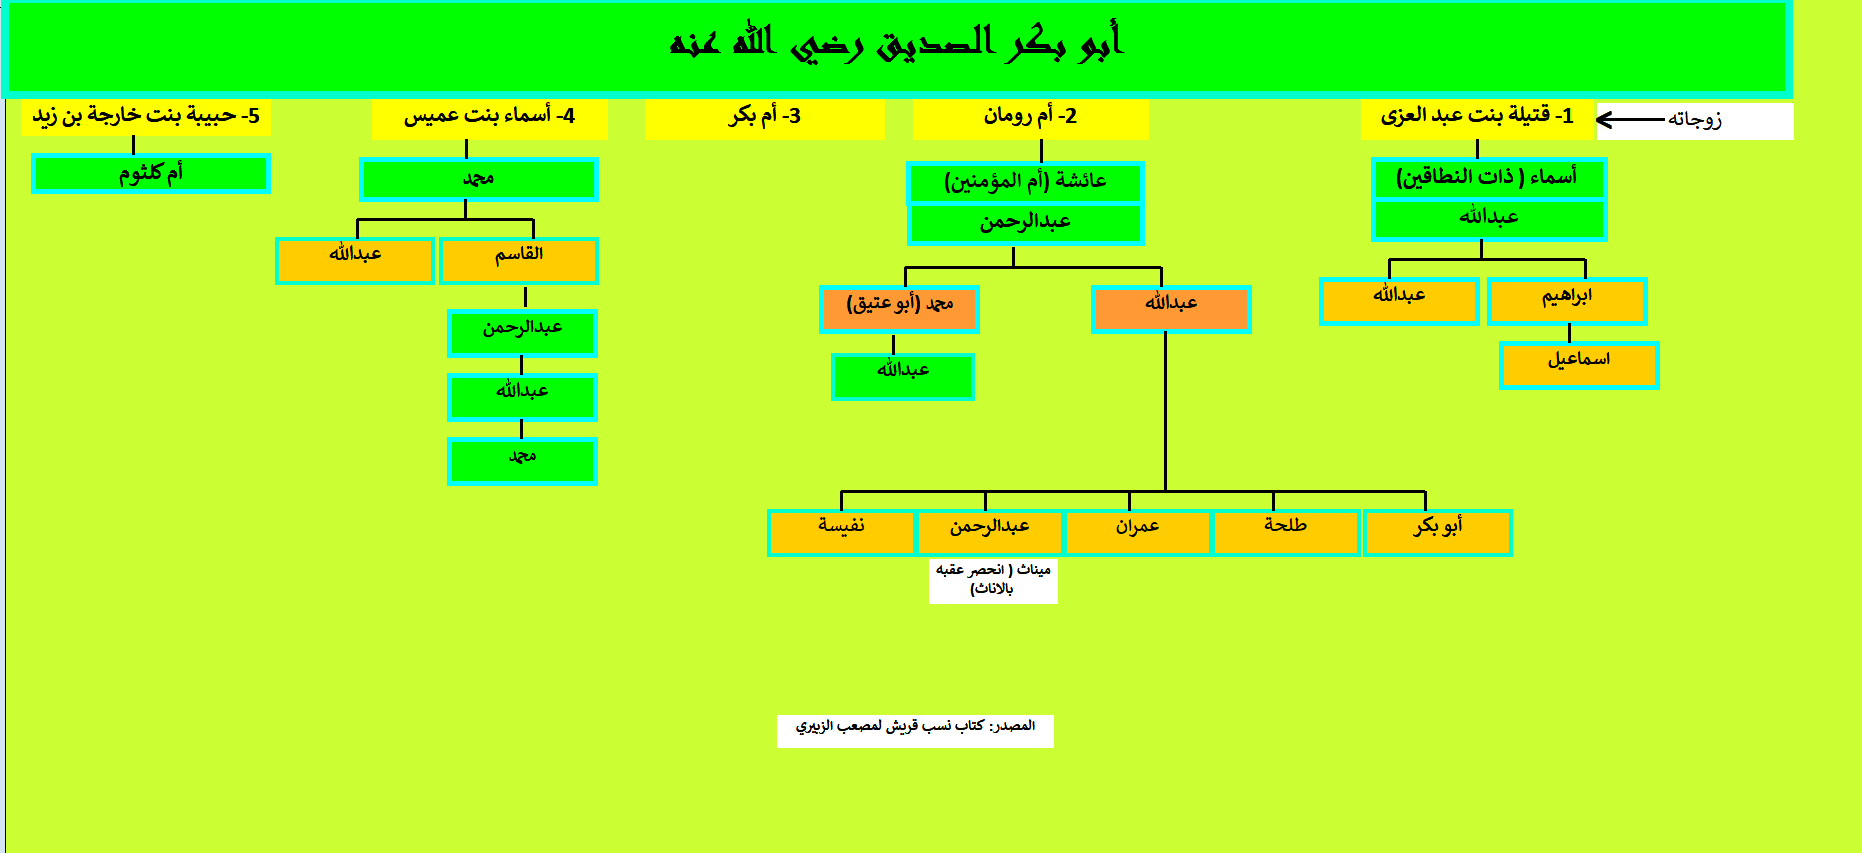
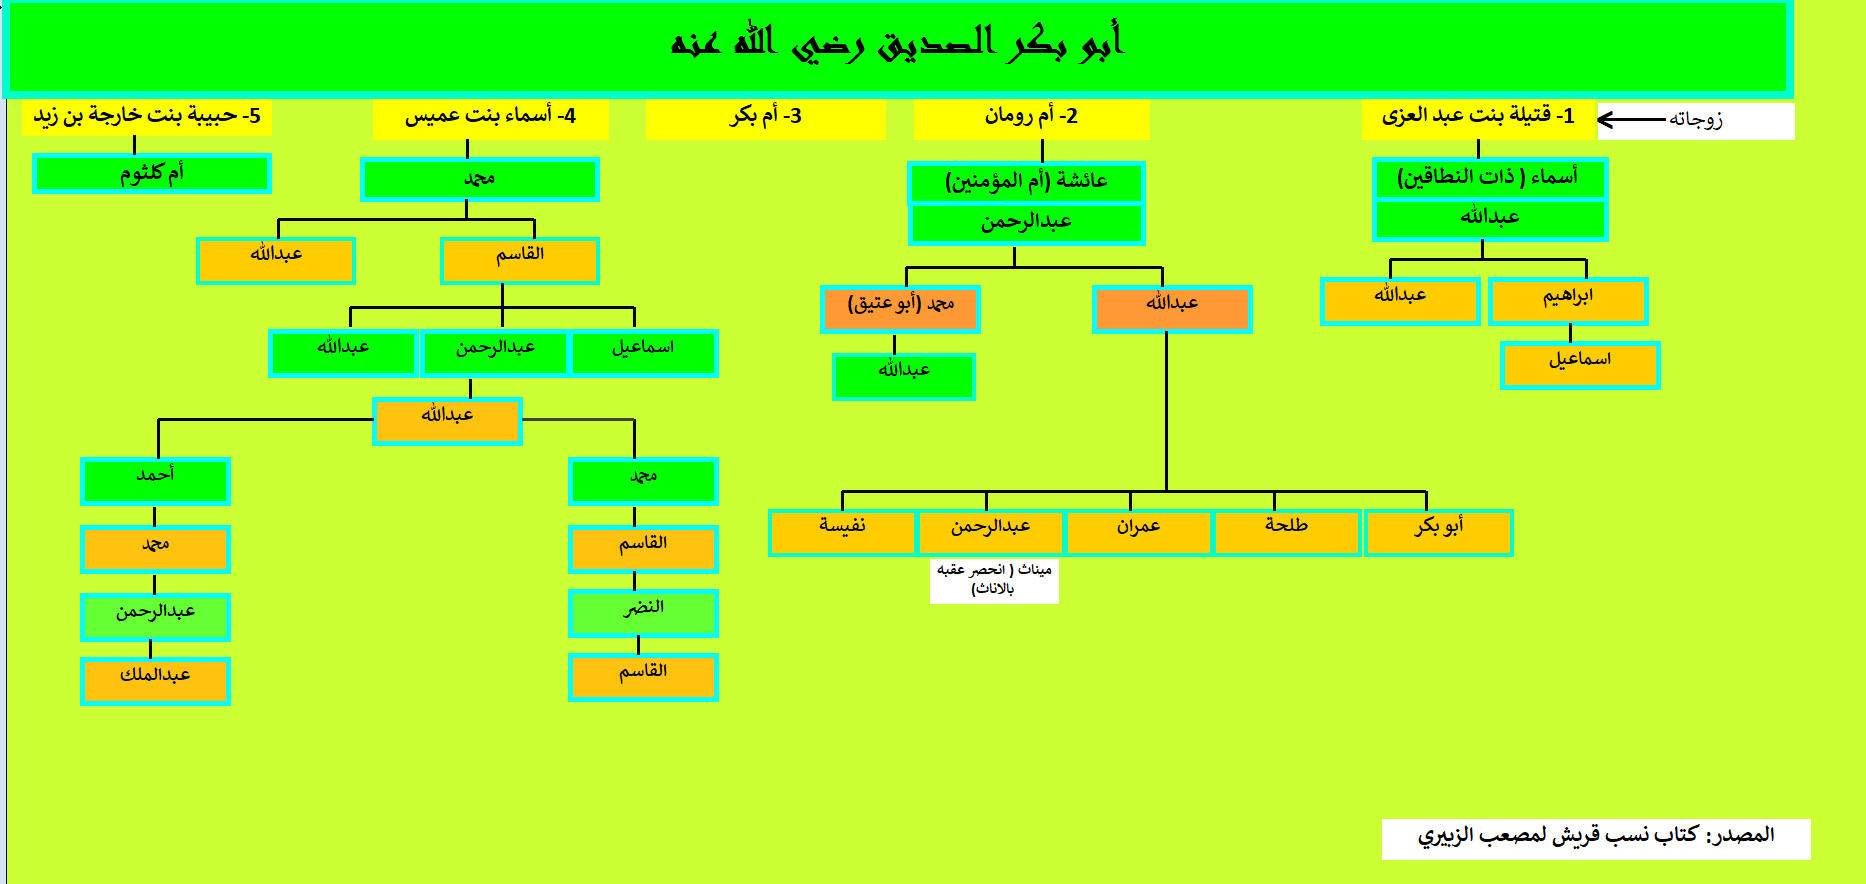
update

diff --git a/abu-bakr.html b/abu-bakr.html
@@ -35,34 +35,42 @@ function FP_getObjectByID(id,o) {//v1.0
 </style>
 </head>
 
-<body style="background-color: #CCFF33" onload="FP_preloadImgs(/*url*/'button1C22.gif',/*url*/'button1D14.gif',/*url*/'button1F13.gif',/*url*/'button2547.gif',/*url*/'button2548.gif',/*url*/'button2549.gif',/*url*/'button2550.gif',/*url*/'button2551.gif',/*url*/'button2554.gif',/*url*/'button2555.gif',/*url*/'button2557.gif',/*url*/'button2558.gif')">
+<body style="background-color: #CCFF33" onload="FP_preloadImgs(/*url*/'button1C22.gif',/*url*/'button1D14.gif',/*url*/'button1F13.gif',/*url*/'button2547.gif',/*url*/'button2548.gif',/*url*/'button2549.gif',/*url*/'button2550.gif',/*url*/'button2551.gif',/*url*/'button2554.gif',/*url*/'button2555.gif',/*url*/'button2557.gif',/*url*/'button2558.gif',/*url*/'button742.jpg',/*url*/'button743.jpg',/*url*/'button2560.gif',/*url*/'button2561.gif')">
 
 <p>
 
-<div id="layer7" style="position: absolute; width: 155px; height: 35px; z-index: 7; left: 80px; top: 635px">
+<div id="layer7" style="position: absolute; width: 155px; height: 35px; z-index: 7; left: 50px; top: 670px">
 	<a href="index1.html">
 	<img id="img7" alt="الأنساب  القريشية" height="30" onmousedown="FP_swapImg(1,0,/*id*/'img7',/*url*/'button2555.gif')" onmouseout="FP_swapImg(0,0,/*id*/'img7',/*url*/'button2556.gif')" onmouseover="FP_swapImg(1,0,/*id*/'img7',/*url*/'button2554.gif')" onmouseup="FP_swapImg(0,0,/*id*/'img7',/*url*/'button2554.gif')" src="button2556.gif" style="border: 0" width="150" /><!-- MSComment="ibutton" fp-style="fp-btn: Metal Capsule 3; fp-font-style: Bold; fp-transparent: 1" fp-title="الأنساب  القريشية" --></a></div>
-<div id="layer3" style="position: absolute; width: 84px; height: 27px; z-index: 3; left: 1050px; top: 480px" class="auto-style1">
+<div id="layer3" style="position: absolute; width: 84px; height: 27px; z-index: 3; left: 1045px; top: 480px; right: 547px;" class="auto-style1">
 	<a href="emran%20ben%20abdalla.html">
 	<img id="img3" alt="الاحفاد" height="16" onmousedown="FP_swapImg(1,0,/*id*/'img3',/*url*/'button2547.gif')" onmouseout="FP_swapImg(0,0,/*id*/'img3',/*url*/'button1E13.gif')" onmouseover="FP_swapImg(1,0,/*id*/'img3',/*url*/'button1F13.gif')" onmouseup="FP_swapImg(0,0,/*id*/'img3',/*url*/'button1F13.gif')" src="button1E13.gif" style="border: 0" width="80" /><!-- MSComment="ibutton" fp-style="fp-btn: Metal Capsule 6; fp-font-style: Bold; fp-transparent: 1" fp-title="الاحفاد" --></a></div>
 <div id="layer6" style="position: absolute; width: 240px; height: 50px; z-index: 6; left: 1420px; top: 610px">
 	<a href="Abu-Bakr-Tree.html">
 	<img id="img6" alt="سلسلة نسب أجداد السادة البكرية" height="47" onmousedown="FP_swapImg(1,0,/*id*/'img6',/*url*/'button2549.gif')" onmouseout="FP_swapImg(0,0,/*id*/'img6',/*url*/'button2552.gif')" onmouseover="FP_swapImg(1,0,/*id*/'img6',/*url*/'button2548.gif')" onmouseup="FP_swapImg(0,0,/*id*/'img6',/*url*/'button2548.gif')" src="button2552.gif" style="border: 0" width="233" /><!-- MSComment="ibutton" fp-style="fp-btn: Metal Capsule 2; fp-font-style: Bold; fp-transparent: 1" fp-title="سلسلة نسب أجداد السادة البكرية" --></a></div>
-<div id="layer5" style="position: absolute; width: 161px; height: 34px; z-index: 5; left: 385px; top: 630px">
+<div id="layer5" style="position: absolute; width: 161px; height: 34px; z-index: 5; left: 1235px; top: 615px">
 	<a href="http://alsallabi.com/s2/_lib/file/doc/Book01(1).pdf">
 	<img id="img5" alt="سيرة أبي بكر الصديق" height="32" onmousedown="FP_swapImg(1,0,/*id*/'img5',/*url*/'button2551.gif')" onmouseout="FP_swapImg(0,0,/*id*/'img5',/*url*/'button2553.gif')" onmouseover="FP_swapImg(1,0,/*id*/'img5',/*url*/'button2550.gif')" onmouseup="FP_swapImg(0,0,/*id*/'img5',/*url*/'button2550.gif')" src="button2553.gif" style="border: 0" width="160" /><!-- MSComment="ibutton" fp-style="fp-btn: Metal Capsule 2; fp-font-style: Bold; fp-transparent: 1" fp-title="سيرة أبي بكر الصديق" --></a></div>
 </p>
 
-<div id="layer2" style="position: absolute; width: 84px; height: 27px; z-index: 2; left: 1185px; top: 480px">
+<div id="layer2" style="position: absolute; width: 84px; height: 27px; z-index: 2; left: 1180px; top: 480px">
 	<a href="talha%20ben%20abdalla.html">
 	<img id="img2" alt="الاحفاد" height="16" onmousedown="FP_swapImg(1,0,/*id*/'img2',/*url*/'button1D14.gif')" onmouseout="FP_swapImg(0,0,/*id*/'img2',/*url*/'button1B22.gif')" onmouseover="FP_swapImg(1,0,/*id*/'img2',/*url*/'button1C22.gif')" onmouseup="FP_swapImg(0,0,/*id*/'img2',/*url*/'button1C22.gif')" src="button1B22.gif" style="border: 0" width="80" /><!-- MSComment="ibutton" fp-style="fp-btn: Metal Capsule 6; fp-font-style: Bold; fp-transparent: 1" fp-title="الاحفاد" --></a></div>
 
 <p>
-<img alt="" height="755" src="abu-bakr.png" style="z-index: 1; position: absolute; top: -15px; left: -5px" width="1774" /></p>
+<img alt="" height="755" src="abu-bakr.png" style="z-index: 1; position: absolute; top: 0px; left: 0px" width="1774" /></p>
 
-<div id="layer1" style="position: absolute; width: 88px; height: 24px; z-index: 1; left: 1330px; top: 480px">
+<div id="layer1" style="position: absolute; width: 88px; height: 24px; z-index: 1; left: 1325px; top: 480px">
 	<a href="abu%20baker%20ben%20abdallah.html">
 	<img id="img1" alt="الاحفاد" height="16" onmousedown="FP_swapImg(1,0,/*id*/'img1',/*url*/'button2558.gif')" onmouseout="FP_swapImg(0,0,/*id*/'img1',/*url*/'button2559.gif')" onmouseover="FP_swapImg(1,0,/*id*/'img1',/*url*/'button2557.gif')" onmouseup="FP_swapImg(0,0,/*id*/'img1',/*url*/'button2557.gif')" src="button2559.gif" style="border: 0" width="80" /><!-- MSComment="ibutton" fp-style="fp-btn: Metal Capsule 6; fp-font-style: Bold; fp-transparent: 1" fp-title="الاحفاد" --></a></div>
+
+<div id="layer8" style="position: absolute; width: 100px; height: 30px; z-index: 8; left: 565px; top: 600px">
+	<a href="Qasem-ben-Nader.html">
+	<img id="img8" alt="الاحفاد" height="20" onmousedown="FP_swapImg(1,0,/*id*/'img8',/*url*/'button743.jpg')" onmouseout="FP_swapImg(0,0,/*id*/'img8',/*url*/'button744.jpg')" onmouseover="FP_swapImg(1,0,/*id*/'img8',/*url*/'button742.jpg')" onmouseup="FP_swapImg(0,0,/*id*/'img8',/*url*/'button742.jpg')" src="button744.jpg" style="border: 0" width="100" /><!-- MSComment="ibutton" fp-style="fp-btn: Metal Capsule 6; fp-font-style: Bold" fp-title="الاحفاد" --></a></div>
+
+<div id="layer9" style="position: absolute; width: 100px; height: 40px; z-index: 9; left: 95px; top: 600px">
+	<a href="abdelmalek-ben-abdelrahman.html">
+	<img id="img9" alt="الاحفاد" height="20" onmousedown="FP_swapImg(1,0,/*id*/'img9',/*url*/'button2561.gif')" onmouseout="FP_swapImg(0,0,/*id*/'img9',/*url*/'button2562.gif')" onmouseover="FP_swapImg(1,0,/*id*/'img9',/*url*/'button2560.gif')" onmouseup="FP_swapImg(0,0,/*id*/'img9',/*url*/'button2560.gif')" src="button2562.gif" style="border: 0" width="100" /><!-- MSComment="ibutton" fp-style="fp-btn: Metal Capsule 6; fp-font-style: Bold; fp-transparent: 1" fp-title="الاحفاد" --></a></div>
 
 </body>
 

diff --git a/abdelmalek-ben-abdelrahman.html b/abdelmalek-ben-abdelrahman.html
@@ -1,0 +1,42 @@
+<!DOCTYPE html PUBLIC "-//W3C//DTD XHTML 1.0 Transitional//EN" "http://www.w3.org/TR/xhtml1/DTD/xhtml1-transitional.dtd">
+<html xmlns="http://www.w3.org/1999/xhtml">
+
+<head>
+<meta content="text/html; charset=utf-8" http-equiv="Content-Type" />
+<title>النسب البكري</title>
+<script type="text/javascript">
+<!--
+function FP_preloadImgs() {//v1.0
+ var d=document,a=arguments; if(!d.FP_imgs) d.FP_imgs=new Array();
+ for(var i=0; i<a.length; i++) { d.FP_imgs[i]=new Image; d.FP_imgs[i].src=a[i]; }
+}
+
+function FP_swapImg() {//v1.0
+ var doc=document,args=arguments,elm,n; doc.$imgSwaps=new Array(); for(n=2; n<args.length;
+ n+=2) { elm=FP_getObjectByID(args[n]); if(elm) { doc.$imgSwaps[doc.$imgSwaps.length]=elm;
+ elm.$src=elm.src; elm.src=args[n+1]; } }
+}
+
+function FP_getObjectByID(id,o) {//v1.0
+ var c,el,els,f,m,n; if(!o)o=document; if(o.getElementById) el=o.getElementById(id);
+ else if(o.layers) c=o.layers; else if(o.all) el=o.all[id]; if(el) return el;
+ if(o.id==id || o.name==id) return o; if(o.childNodes) c=o.childNodes; if(c)
+ for(n=0; n<c.length; n++) { el=FP_getObjectByID(id,c[n]); if(el) return el; }
+ f=o.forms; if(f) for(n=0; n<f.length; n++) { els=f[n].elements;
+ for(m=0; m<els.length; m++){ el=FP_getObjectByID(id,els[n]); if(el) return el; } }
+ return null;
+}
+// -->
+</script>
+</head>
+
+<body style="background-color: #CCFF33" onload="FP_preloadImgs(/*url*/'button2563.gif',/*url*/'button2564.gif')">
+
+<div id="layer1" style="position: absolute; width: 160px; height: 45px; z-index: 1; left: 20px; top: 35px">
+	<a href="index1.html">
+	<img id="img1" alt="الانساب القريشية" height="29" onmousedown="FP_swapImg(1,0,/*id*/'img1',/*url*/'button2564.gif')" onmouseout="FP_swapImg(0,0,/*id*/'img1',/*url*/'button2565.gif')" onmouseover="FP_swapImg(1,0,/*id*/'img1',/*url*/'button2563.gif')" onmouseup="FP_swapImg(0,0,/*id*/'img1',/*url*/'button2563.gif')" src="button2565.gif" style="border: 0" width="145" /><!-- MSComment="ibutton" fp-style="fp-btn: Metal Capsule 3; fp-font-style: Bold; fp-transparent: 1" fp-title="الانساب القريشية" --></a></div>
+<img alt="" height="885" src="abdelmalek-ben-abdelrahman.png" width="1843" />
+
+</body>
+
+</html>

diff --git a/Qasem-ben-Nader.html b/Qasem-ben-Nader.html
@@ -1,0 +1,42 @@
+<!DOCTYPE html PUBLIC "-//W3C//DTD XHTML 1.0 Transitional//EN" "http://www.w3.org/TR/xhtml1/DTD/xhtml1-transitional.dtd">
+<html xmlns="http://www.w3.org/1999/xhtml">
+
+<head>
+<meta content="text/html; charset=utf-8" http-equiv="Content-Type" />
+<title>النسب البكري</title>
+<script type="text/javascript">
+<!--
+function FP_preloadImgs() {//v1.0
+ var d=document,a=arguments; if(!d.FP_imgs) d.FP_imgs=new Array();
+ for(var i=0; i<a.length; i++) { d.FP_imgs[i]=new Image; d.FP_imgs[i].src=a[i]; }
+}
+
+function FP_swapImg() {//v1.0
+ var doc=document,args=arguments,elm,n; doc.$imgSwaps=new Array(); for(n=2; n<args.length;
+ n+=2) { elm=FP_getObjectByID(args[n]); if(elm) { doc.$imgSwaps[doc.$imgSwaps.length]=elm;
+ elm.$src=elm.src; elm.src=args[n+1]; } }
+}
+
+function FP_getObjectByID(id,o) {//v1.0
+ var c,el,els,f,m,n; if(!o)o=document; if(o.getElementById) el=o.getElementById(id);
+ else if(o.layers) c=o.layers; else if(o.all) el=o.all[id]; if(el) return el;
+ if(o.id==id || o.name==id) return o; if(o.childNodes) c=o.childNodes; if(c)
+ for(n=0; n<c.length; n++) { el=FP_getObjectByID(id,c[n]); if(el) return el; }
+ f=o.forms; if(f) for(n=0; n<f.length; n++) { els=f[n].elements;
+ for(m=0; m<els.length; m++){ el=FP_getObjectByID(id,els[n]); if(el) return el; } }
+ return null;
+}
+// -->
+</script>
+</head>
+
+<body style="background-color: #CCFF33" onload="FP_preloadImgs(/*url*/'button2566.gif',/*url*/'button2567.gif')">
+
+<div id="layer1" style="position: absolute; width: 135px; height: 45px; z-index: 1; left: 25px; top: 35px">
+	<a href="index1.html">
+	<img id="img1" alt="الانساب القريشية" height="25" onmousedown="FP_swapImg(1,0,/*id*/'img1',/*url*/'button2567.gif')" onmouseout="FP_swapImg(0,0,/*id*/'img1',/*url*/'button2568.gif')" onmouseover="FP_swapImg(1,0,/*id*/'img1',/*url*/'button2566.gif')" onmouseup="FP_swapImg(0,0,/*id*/'img1',/*url*/'button2566.gif')" src="button2568.gif" style="border: 0" width="125" /><!-- MSComment="ibutton" fp-style="fp-btn: Metal Capsule 3; fp-font-style: Bold; fp-transparent: 1" fp-title="الانساب القريشية" --></a></div>
+<img alt="" height="883" src="Qasem-ben-Nader.png" width="1836" />
+
+</body>
+
+</html>
